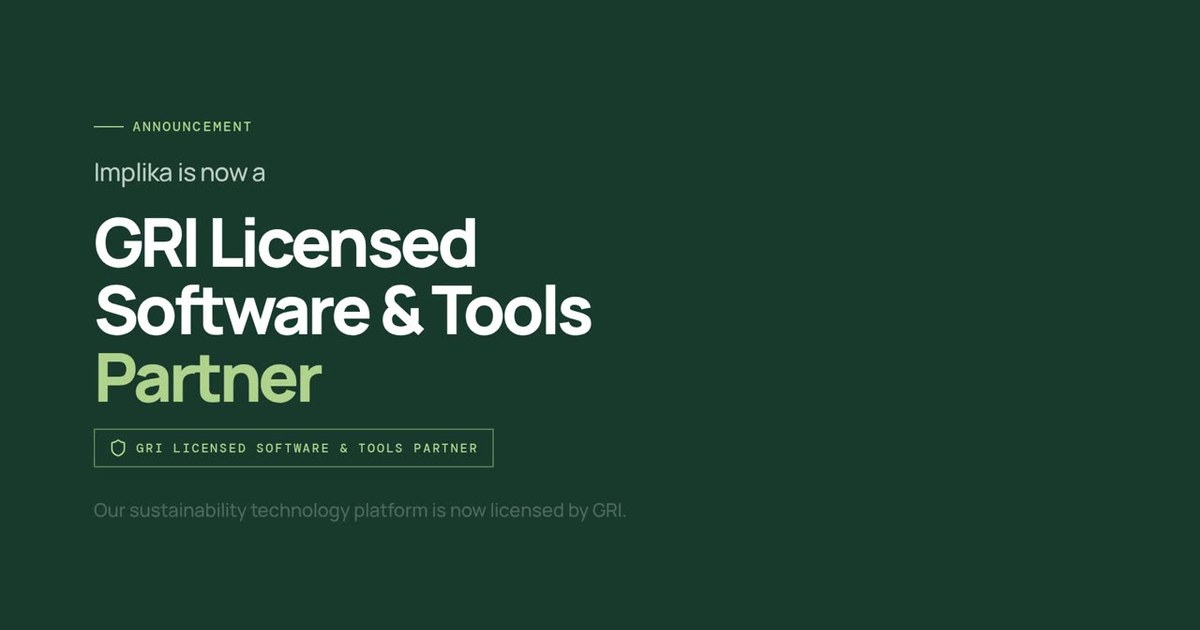
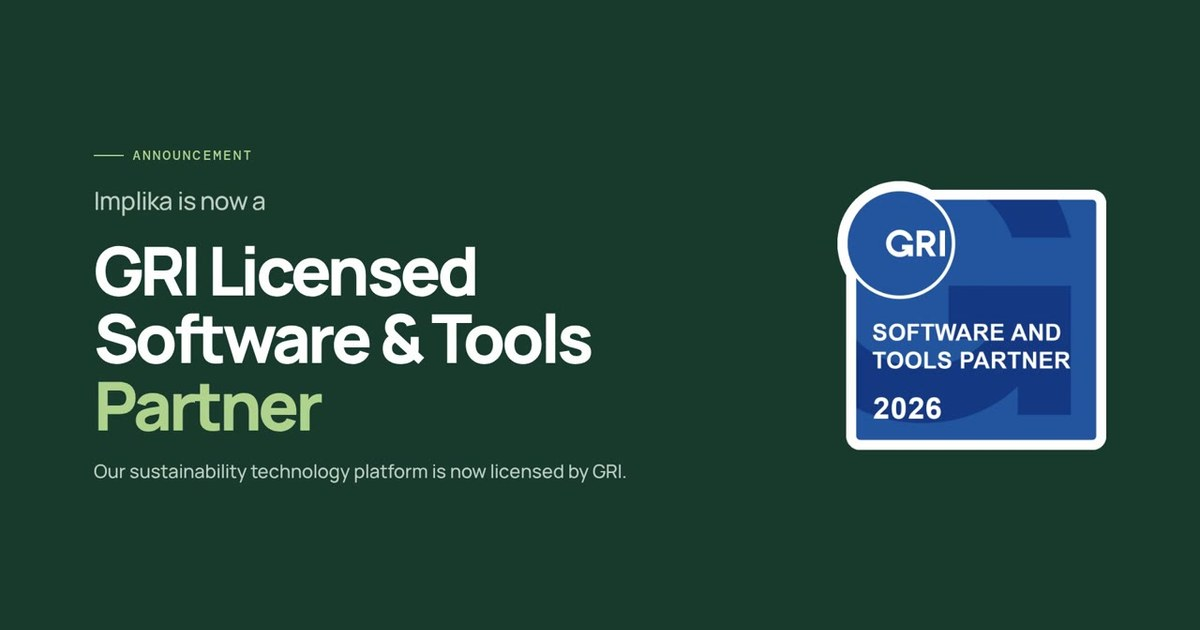
Seslendirmeli tanıtım filmleri ve GRI onaylı duyuru videosu (YouTube), footer'a YouTube kanalı

Changed region(s): [[0.0617, 0.2413, 0.5242, 0.8444], [0.6783, 0.2714, 0.925, 0.7238], [0.0925, 0.181, 0.2158, 0.2111]]

diff --git a/404.html b/404.html
@@ -781,6 +781,7 @@ a.hero-badge:hover{border-color:#b0d28d}
 
 <script>
 const ICONS={
+"youtube":'<path d="M2.5 17a24.12 24.12 0 0 1 0-10 2 2 0 0 1 1.4-1.4 49.56 49.56 0 0 1 16.2 0A2 2 0 0 1 21.5 7a24.12 24.12 0 0 1 0 10 2 2 0 0 1-1.4 1.4 49.55 49.55 0 0 1-16.2 0A2 2 0 0 1 2.5 17"/><path d="m10 15 5-3-5-3z"/>',
 "arrow-left":'<path d="m12 19-7-7 7-7"/><path d="M19 12H5"/>',
 "calendar":'<path d="M8 2v4"/><path d="M16 2v4"/><rect width="18" height="18" x="3" y="4" rx="2"/><path d="M3 10h18"/>',
 "clock":'<circle cx="12" cy="12" r="10"/><path d="M12 6v6l4 2"/>',
@@ -914,7 +915,7 @@ tr:{
    'yesil-donusumun-finansmani-ve-rekabet-gucu':{tag:'Etkinlik',title:'Yeşil Dönüşümün Finansmanı ve Rekabet Gücü',card:'1 Ekim 2026 · The Hood TEKMER',sum:'Sistem Global’in 30. yılında, Sistem Global ve BTS &amp; Partners ile birlikte düzenlediğimiz etkinlikte yeşil dönüşümün finansmanını ve rekabet gücünü ele alıyoruz.',
     body:['Sistem Global’in 30. yılında, Sistem Global ve <a href="https://www.linkedin.com/company/bts-&amp;-partners/" target="_blank" rel="noopener">BTS &amp; Partners</a> ile birlikte düzenlediğimiz “Yeşil Dönüşümün Finansmanı ve Rekabet Gücü” etkinliğinde; iş dünyasının dönüşüm gündemini kamu, finans, sanayi, teknoloji ve danışmanlık ekosisteminin temsilcileriyle birlikte ele alıyoruz!','Etkinlik boyunca sürdürülebilir finansman modellerinden sanayinin yeşil dönüşümüne, yapay zekâ ve inovasyondan startup–sanayi iş birliklerine kadar geleceğin rekabet ortamını şekillendiren başlıkları farklı perspektiflerle değerlendireceğiz.'],
     facts:[['calendar','1 Ekim 2026'],['clock','09:00 – 13:00'],['map-pin','<a href="https://www.linkedin.com/company/thehoodtekmer/" target="_blank" rel="noopener">The Hood TEKMER</a>']],alt:'Yeşil Dönüşümün Finansmanı ve Rekabet Gücü etkinlik davetiyesi ve programı'},
-   'gri-licensed-software-tools-partner':{tag:'Duyuru',title:'İmplika artık GRI Licensed Software &amp; Tools Partner.',card:'Video · 18 sn',sum:'İmplika, GRI Licensed Software &amp; Tools Partner oldu.',
+   'gri-licensed-software-tools-partner':{tag:'Duyuru',title:'İmplika artık GRI Licensed Software &amp; Tools Partner.',card:'Video · İngilizce · 18 sn',sum:'İmplika, GRI Licensed Software &amp; Tools Partner oldu.',
     body:['İmplika artık GRI Licensed Software &amp; Tools Partner. KOBİ’lerin ve şirketlerin sürdürülebilirlik olgunluğunu GRI standardına göre ölçen platformumuzu bu iş birliğiyle güçlendiriyoruz.','Kısa tanıtım filmimizi izleyin ve duyuruyu paylaşın.'],facts:[],alt:'İmplika GRI Licensed Software &amp; Tools Partner tanıtım videosu'}
   }},
  insights:{title:'İçgörüler',eb:'İçgörüler',h1:'Sürdürülebilirlikte bir sonraki adımı düşünün.',p:'Uzman videoları, makaleler ve regülasyon rehberleri. İmplika kullanıcıları bu içeriklere ve kendilerine özel önerilere platform içinden de ulaşır.',vEb:'Uzman videoları',vH:'Alan uzmanları regülasyonları ve finansmanı anlatıyor.',soon:'Yakında',
@@ -1041,7 +1042,7 @@ const BOARD=[['İU','İhsan Uğur Delikanlı','assets/people/ihsan-ugur-delikanl
 const ADVISORY=[['HK','Hüseyin Karslıoğlu',0],['Eİ','Elif İşgör Önen',0],['GK','Gözde Kuşçuoğlu',0],['TB','Tuğçe Balarısı',0],['MY','Mediterra Yatırım',1]];
 const NEWS=[{slug:'yesil-donusumun-finansmani-ve-rekabet-gucu',img:'assets/news/yesil-donusumun-finansmani-ve-rekabet-gucu.jpg',thumb:'assets/news/yesil-donusumun-finansmani-ve-rekabet-gucu-thumb.jpg'},{slug:'gri-licensed-software-tools-partner',yt:'gri',poster:'assets/video/implika-gri-partner-',thumb:'assets/news/gri-licensed-software-tools-partner-thumb.jpg'}];
 const SITE='https://implika.co';
-const YT={film:{tr:'mjzEa7_r5uk',en:'e5Jo8jPkw_I'},gri:{tr:'5Q3uziDZnNY',en:'v2lbOAt72EI'}};
+const YT={film:{tr:'6QFc3rUrldE',en:'8Lhms6Degmw'},gri:{tr:'U7ErGtVjzDE',en:'U7ErGtVjzDE'}};
 const ytBox=(id,poster,label)=>`<div class="yt" data-yt="${id}"><button type="button" class="yt-play" aria-label="${label}"><img src="${poster}" alt="" loading="lazy" decoding="async"><span class="yt-btn"><i data-i="play" s="26"></i></span></button></div>`;
 const shareUrl=slug=>`${SITE}/${lang==='en'?'en/':''}news/${slug}/`;
 const newsCard=n=>{const d=T().news.items[n.slug];return `<a class="video-card news-card" href="#news/${n.slug}" aria-label="${T().news.open}: ${d.title}"><div class="video-thumb has-media"><img src="${n.thumb}" alt="" loading="lazy" decoding="async">${n.yt?`<div class="play-btn"><i data-i="play" s="22"></i></div>`:''}<span class="video-topic">${d.tag}</span></div><div class="video-meta"><strong>${d.title}</strong><span>${d.card}</span></div></a>`};
@@ -1173,7 +1174,7 @@ function renderChrome(){
    <div><strong>${fo.c3}</strong><a href="#contact">${n.demo}</a><span>${fo.city}</span><a href="mailto:${EMAIL}">${EMAIL}</a></div>
   </div>
  </div>
- <div class="footer-bottom"><span>${fo.copy}</span><div class="socials"><a aria-label="${fo.li}" href="${LINKEDIN}" target="_blank" rel="noopener noreferrer"><i data-i="linkedin" s="16"></i></a><a aria-label="${fo.ig}" href="https://www.instagram.com/implika_tech/" target="_blank" rel="noopener noreferrer"><i data-i="instagram" s="16"></i></a><a aria-label="${fo.xl}" href="https://x.com/implika_tech" target="_blank" rel="noopener noreferrer"><i data-i="x-logo" s="15"></i></a></div><span>${fo.legal}</span></div>`;
+ <div class="footer-bottom"><span>${fo.copy}</span><div class="socials"><a aria-label="${fo.li}" href="${LINKEDIN}" target="_blank" rel="noopener noreferrer"><i data-i="linkedin" s="16"></i></a><a aria-label="${fo.ig}" href="https://www.instagram.com/implika_tech/" target="_blank" rel="noopener noreferrer"><i data-i="instagram" s="16"></i></a><a aria-label="${fo.xl}" href="https://x.com/implika_tech" target="_blank" rel="noopener noreferrer"><i data-i="x-logo" s="15"></i></a><a aria-label="YouTube" href="https://www.youtube.com/@%C4%B0mplika-m5k" target="_blank" rel="noopener noreferrer"><i data-i="youtube" s="17"></i></a></div><span>${fo.legal}</span></div>`;
  demoInner.innerHTML=`<button class="demo-close" type="button" aria-label="${d.close}" data-close><i data-i="x" s="20"></i></button>
  <div class="demo-header">${eb(d.eb)}<h2 id="demo-title">${d.h2}</h2></div>
  <div data-form-wrap><form class="form" data-form="demo" novalidate>

diff --git a/index.html b/index.html
@@ -781,6 +781,7 @@ a.hero-badge:hover{border-color:#b0d28d}
 
 <script>
 const ICONS={
+"youtube":'<path d="M2.5 17a24.12 24.12 0 0 1 0-10 2 2 0 0 1 1.4-1.4 49.56 49.56 0 0 1 16.2 0A2 2 0 0 1 21.5 7a24.12 24.12 0 0 1 0 10 2 2 0 0 1-1.4 1.4 49.55 49.55 0 0 1-16.2 0A2 2 0 0 1 2.5 17"/><path d="m10 15 5-3-5-3z"/>',
 "arrow-left":'<path d="m12 19-7-7 7-7"/><path d="M19 12H5"/>',
 "calendar":'<path d="M8 2v4"/><path d="M16 2v4"/><rect width="18" height="18" x="3" y="4" rx="2"/><path d="M3 10h18"/>',
 "clock":'<circle cx="12" cy="12" r="10"/><path d="M12 6v6l4 2"/>',
@@ -914,7 +915,7 @@ tr:{
    'yesil-donusumun-finansmani-ve-rekabet-gucu':{tag:'Etkinlik',title:'Yeşil Dönüşümün Finansmanı ve Rekabet Gücü',card:'1 Ekim 2026 · The Hood TEKMER',sum:'Sistem Global’in 30. yılında, Sistem Global ve BTS &amp; Partners ile birlikte düzenlediğimiz etkinlikte yeşil dönüşümün finansmanını ve rekabet gücünü ele alıyoruz.',
     body:['Sistem Global’in 30. yılında, Sistem Global ve <a href="https://www.linkedin.com/company/bts-&amp;-partners/" target="_blank" rel="noopener">BTS &amp; Partners</a> ile birlikte düzenlediğimiz “Yeşil Dönüşümün Finansmanı ve Rekabet Gücü” etkinliğinde; iş dünyasının dönüşüm gündemini kamu, finans, sanayi, teknoloji ve danışmanlık ekosisteminin temsilcileriyle birlikte ele alıyoruz!','Etkinlik boyunca sürdürülebilir finansman modellerinden sanayinin yeşil dönüşümüne, yapay zekâ ve inovasyondan startup–sanayi iş birliklerine kadar geleceğin rekabet ortamını şekillendiren başlıkları farklı perspektiflerle değerlendireceğiz.'],
     facts:[['calendar','1 Ekim 2026'],['clock','09:00 – 13:00'],['map-pin','<a href="https://www.linkedin.com/company/thehoodtekmer/" target="_blank" rel="noopener">The Hood TEKMER</a>']],alt:'Yeşil Dönüşümün Finansmanı ve Rekabet Gücü etkinlik davetiyesi ve programı'},
-   'gri-licensed-software-tools-partner':{tag:'Duyuru',title:'İmplika artık GRI Licensed Software &amp; Tools Partner.',card:'Video · 18 sn',sum:'İmplika, GRI Licensed Software &amp; Tools Partner oldu.',
+   'gri-licensed-software-tools-partner':{tag:'Duyuru',title:'İmplika artık GRI Licensed Software &amp; Tools Partner.',card:'Video · İngilizce · 18 sn',sum:'İmplika, GRI Licensed Software &amp; Tools Partner oldu.',
     body:['İmplika artık GRI Licensed Software &amp; Tools Partner. KOBİ’lerin ve şirketlerin sürdürülebilirlik olgunluğunu GRI standardına göre ölçen platformumuzu bu iş birliğiyle güçlendiriyoruz.','Kısa tanıtım filmimizi izleyin ve duyuruyu paylaşın.'],facts:[],alt:'İmplika GRI Licensed Software &amp; Tools Partner tanıtım videosu'}
   }},
  insights:{title:'İçgörüler',eb:'İçgörüler',h1:'Sürdürülebilirlikte bir sonraki adımı düşünün.',p:'Uzman videoları, makaleler ve regülasyon rehberleri. İmplika kullanıcıları bu içeriklere ve kendilerine özel önerilere platform içinden de ulaşır.',vEb:'Uzman videoları',vH:'Alan uzmanları regülasyonları ve finansmanı anlatıyor.',soon:'Yakında',
@@ -1041,7 +1042,7 @@ const BOARD=[['İU','İhsan Uğur Delikanlı','assets/people/ihsan-ugur-delikanl
 const ADVISORY=[['HK','Hüseyin Karslıoğlu',0],['Eİ','Elif İşgör Önen',0],['GK','Gözde Kuşçuoğlu',0],['TB','Tuğçe Balarısı',0],['MY','Mediterra Yatırım',1]];
 const NEWS=[{slug:'yesil-donusumun-finansmani-ve-rekabet-gucu',img:'assets/news/yesil-donusumun-finansmani-ve-rekabet-gucu.jpg',thumb:'assets/news/yesil-donusumun-finansmani-ve-rekabet-gucu-thumb.jpg'},{slug:'gri-licensed-software-tools-partner',yt:'gri',poster:'assets/video/implika-gri-partner-',thumb:'assets/news/gri-licensed-software-tools-partner-thumb.jpg'}];
 const SITE='https://implika.co';
-const YT={film:{tr:'mjzEa7_r5uk',en:'e5Jo8jPkw_I'},gri:{tr:'5Q3uziDZnNY',en:'v2lbOAt72EI'}};
+const YT={film:{tr:'6QFc3rUrldE',en:'8Lhms6Degmw'},gri:{tr:'U7ErGtVjzDE',en:'U7ErGtVjzDE'}};
 const ytBox=(id,poster,label)=>`<div class="yt" data-yt="${id}"><button type="button" class="yt-play" aria-label="${label}"><img src="${poster}" alt="" loading="lazy" decoding="async"><span class="yt-btn"><i data-i="play" s="26"></i></span></button></div>`;
 const shareUrl=slug=>`${SITE}/${lang==='en'?'en/':''}news/${slug}/`;
 const newsCard=n=>{const d=T().news.items[n.slug];return `<a class="video-card news-card" href="#news/${n.slug}" aria-label="${T().news.open}: ${d.title}"><div class="video-thumb has-media"><img src="${n.thumb}" alt="" loading="lazy" decoding="async">${n.yt?`<div class="play-btn"><i data-i="play" s="22"></i></div>`:''}<span class="video-topic">${d.tag}</span></div><div class="video-meta"><strong>${d.title}</strong><span>${d.card}</span></div></a>`};
@@ -1173,7 +1174,7 @@ function renderChrome(){
    <div><strong>${fo.c3}</strong><a href="#contact">${n.demo}</a><span>${fo.city}</span><a href="mailto:${EMAIL}">${EMAIL}</a></div>
   </div>
  </div>
- <div class="footer-bottom"><span>${fo.copy}</span><div class="socials"><a aria-label="${fo.li}" href="${LINKEDIN}" target="_blank" rel="noopener noreferrer"><i data-i="linkedin" s="16"></i></a><a aria-label="${fo.ig}" href="https://www.instagram.com/implika_tech/" target="_blank" rel="noopener noreferrer"><i data-i="instagram" s="16"></i></a><a aria-label="${fo.xl}" href="https://x.com/implika_tech" target="_blank" rel="noopener noreferrer"><i data-i="x-logo" s="15"></i></a></div><span>${fo.legal}</span></div>`;
+ <div class="footer-bottom"><span>${fo.copy}</span><div class="socials"><a aria-label="${fo.li}" href="${LINKEDIN}" target="_blank" rel="noopener noreferrer"><i data-i="linkedin" s="16"></i></a><a aria-label="${fo.ig}" href="https://www.instagram.com/implika_tech/" target="_blank" rel="noopener noreferrer"><i data-i="instagram" s="16"></i></a><a aria-label="${fo.xl}" href="https://x.com/implika_tech" target="_blank" rel="noopener noreferrer"><i data-i="x-logo" s="15"></i></a><a aria-label="YouTube" href="https://www.youtube.com/@%C4%B0mplika-m5k" target="_blank" rel="noopener noreferrer"><i data-i="youtube" s="17"></i></a></div><span>${fo.legal}</span></div>`;
  demoInner.innerHTML=`<button class="demo-close" type="button" aria-label="${d.close}" data-close><i data-i="x" s="20"></i></button>
  <div class="demo-header">${eb(d.eb)}<h2 id="demo-title">${d.h2}</h2></div>
  <div data-form-wrap><form class="form" data-form="demo" novalidate>
